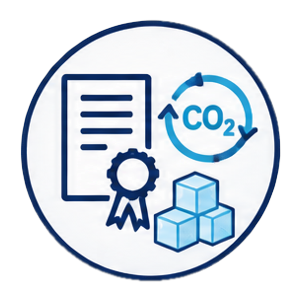
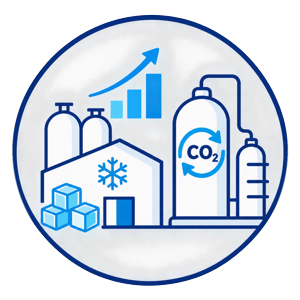
기업소개 연혁: 2025 아이콘을 신규 상세 아이콘(가스용기·성장그래프·드라이아이스·CO₂ Recovery)으로 교체, 원만 추출·다른 아이콘과 동일 규격. 캐시버스트 ?v=20260827c

diff --git a/company.html b/company.html
@@ -281,7 +281,7 @@
           </li>
           <li class="hist2__item hist2__item--card">
             <b class="hist2__year">2025</b>
-            <div class="hist2__rail"><span class="hist2__ic hist2__ic--img" aria-hidden="true"><img src="assets/images/site/history/icon-2025.png?v=20260827b" alt="" loading="lazy"></span></div>
+            <div class="hist2__rail"><span class="hist2__ic hist2__ic--img" aria-hidden="true"><img src="assets/images/site/history/icon-2025.png?v=20260827c" alt="" loading="lazy"></span></div>
             <div class="hist2__body">
               <div class="hist2__entry"><b class="hist2__title">日産 150톤 D/I<br>생산설비 구축</b><p class="hist2__desc">생산 능력을<br>대폭 향상시켰습니다.</p></div>
               <div class="hist2__entry"><b class="hist2__title">CO₂ Recovery<br>설비 설치</b><p class="hist2__desc">친환경 경영과 자원순환 체계를 구축하였습니다.</p></div>
